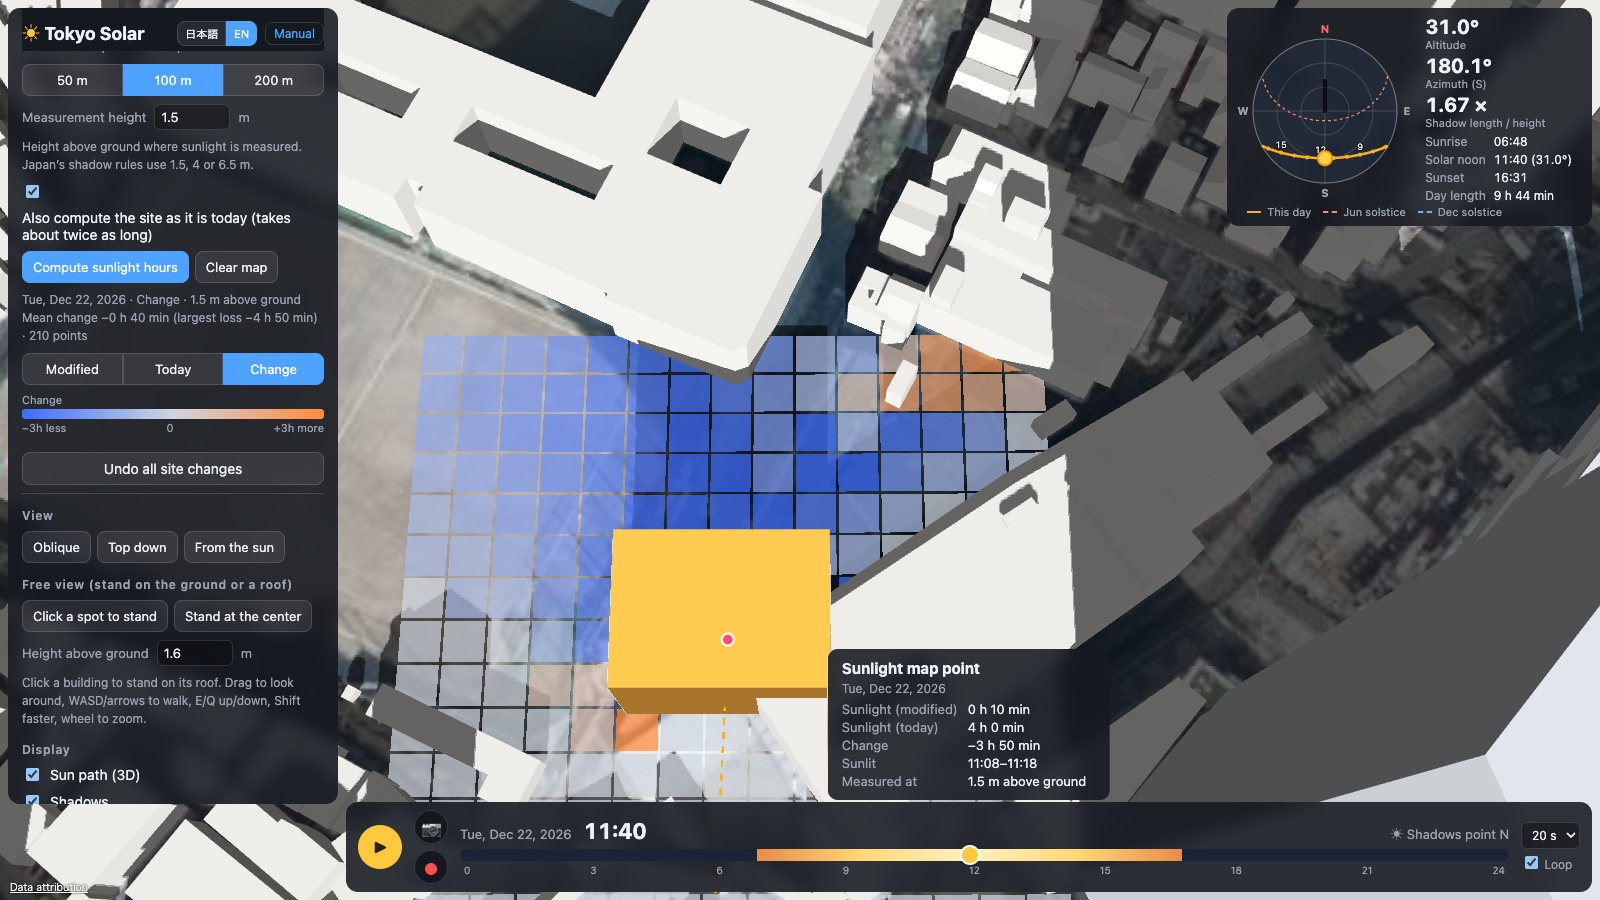
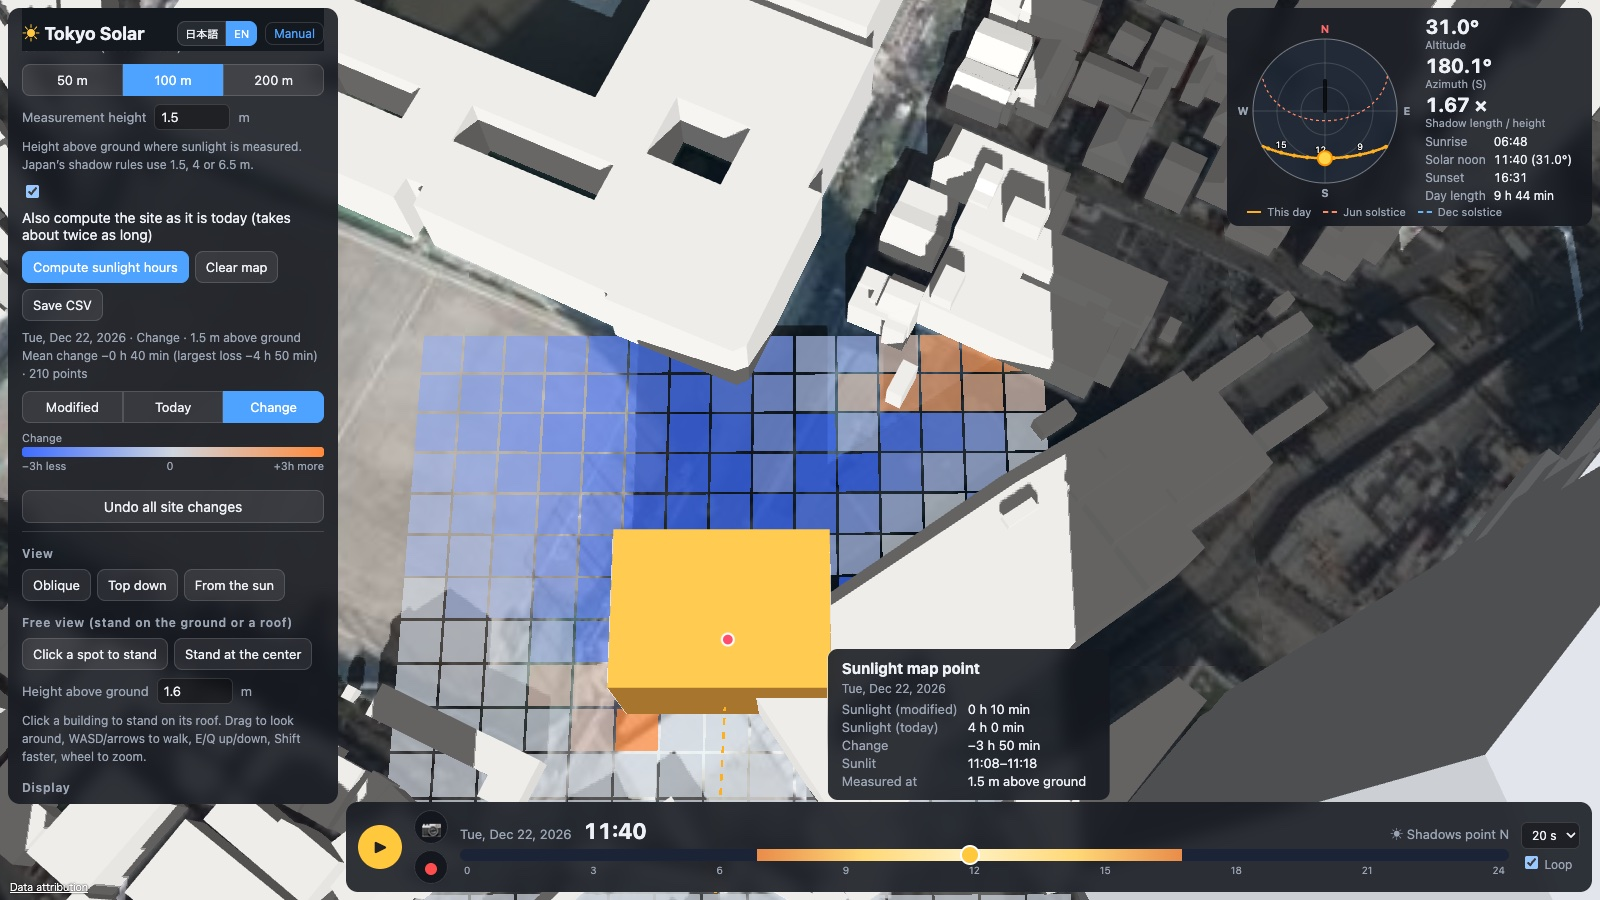
proj88: Tokyo Solar v1.2.1 — CSV export of the sunlight-hours map

Changed region(s): [[0.0, 0.56, 0.1875, 0.9022], [0.0, 0.3111, 0.2188, 0.5289]]

diff --git a/proj88/index.html b/proj88/index.html
@@ -275,7 +275,7 @@
           <div class="feat"><div class="num" data-i18n="f1Num">23区</div><h3 data-i18n="f1Title">実際の建物で計算</h3><p data-i18n="f1Text">国土交通省 PLATEAU の 3D 都市モデル。建物から地面へ、建物から建物へ落ちる影を描きます。</p></div>
           <div class="feat"><div class="num en">NOAA</div><h3 data-i18n="f2Title">天文計算の太陽位置</h3><p data-i18n="f2Text">米国海洋大気庁（NOAA）の計算式で、日付・時刻・場所から太陽の高度と方位を求めます。大気差も補正します。</p></div>
           <div class="feat"><div class="num en">300 m – 2 km</div><h3 data-i18n="f3Title">調べる範囲を選ぶ</h3><p data-i18n="f3Text">住所検索・主な場所・地図クリック・緯度経度で中心を決め、正方形の範囲を表示します。</p></div>
-          <div class="feat"><div class="num en">PNG / MP4</div><h3 data-i18n="f4Title">画像と動画で保存</h3><p data-i18n="f4Text">今の画面を PNG で、1日の影の動きを MP4 で保存。日時・太陽の高度と方位が画面に入ります。</p></div>
+          <div class="feat"><div class="num en">PNG / MP4 / CSV</div><h3 data-i18n="f4Title">画像・動画・表で保存</h3><p data-i18n="f4Text">今の画面を PNG で、1日の影の動きを MP4 で保存。日時・太陽の高度と方位が画面に入ります。日照時間マップの結果は CSV でも。</p></div>
           <div class="feat"><div class="num" data-i18n="f5Num">軌跡図</div><h3 data-i18n="f5Title">太陽の通り道</h3><p data-i18n="f5Text">その日の太陽の通り道を 3D と天空図で表示。夏至・冬至の軌跡と比べられます。日の出・南中・日の入の時刻も。</p></div>
           <div class="feat"><div class="num en">JA / EN</div><h3 data-i18n="f6Title">日本語と英語</h3><p data-i18n="f6Text">画面の表示と、保存する画像・動画の文字を、ワンクリックで切り替えられます。使い方マニュアルも日英対応。</p></div>
         </div>
@@ -304,7 +304,7 @@
     <!-- site study (v1.2) -->
     <section class="alt" id="site">
       <div class="wrap">
-        <div class="eyebrow en">NEW — v1.2</div>
+        <div class="eyebrow en">NEW — v1.2.1</div>
         <h2 data-i18n="siteTitle">ここに建てたら、まわりの日当たりは？</h2>
         <p class="sec-lead" data-i18n="siteLead">今の建物を消して更地にし、建てたい大きさの「仮建物」を置いてみる。まわりの日照が何時間減るか、どこで増えるかを、変更前と比べて地図の上で確かめられます。</p>
         <div class="split">
@@ -317,6 +317,7 @@
               <li data-i18n="site1"><strong>建物を消す</strong>：クリックした建物を次々に消せます（複数可）。消した建物は影を落としません。一覧からいつでも元に戻せます</li>
               <li data-i18n="site2"><strong>仮建物を置く</strong>：幅・奥行・高さ・向きを数値で指定した直方体を、地図をクリックして置きます。あとから大きさや場所も変えられます</li>
               <li data-i18n="site3"><strong>自由視点にも反映</strong>：仮建物の陰に入る窓や歩道で、日が当たる時間帯がどう変わるかも確かめられます</li>
+              <li data-i18n="site4"><strong>CSV で書き出す</strong>：日照時間マップの結果を、地点ごとの緯度経度・日照時間・日が当たる時間帯・変更前との増減の表として保存。Excel でそのまま開けます</li>
             </ul>
           </div>
         </div>
@@ -324,7 +325,7 @@
           <img src="images/sunmap.jpg" data-img="sunmap" width="1600" height="900" loading="lazy" data-i18n-alt="sunmapAlt" alt="仮建物のまわり100m四方の日照時間の増減を色分けした地図。北側は青（日照が減る）、東側の一部はオレンジ（増える）。クリックした地点の日照が4時間から10分に減ったことを示すパネル" />
           <figcaption data-i18n="sunmapCap">日照時間マップ（地上 1.5 m・冬至）。青は日照が減る所、オレンジは消した建物の影がなくなって増える所。仮建物のすぐ北の地点は、1日の日照が 4 時間から 10 分に減ります。</figcaption>
         </figure>
-        <div class="note-box" data-i18n="siteNote">日照時間マップは、選んだ仮建物のまわり 50〜200 m 四方を、測定面の高さ（日影規制で使う 1.5 m・4 m・6.5 m など）で計算します。変更前と比べる場合は計算に1〜2分ほどかかります。結果は目安で、日影規制の正式な検討の代わりにはなりません。</div>
+        <div class="note-box" data-i18n="siteNote">日照時間マップは、選んだ仮建物のまわり 50〜200 m 四方を、測定面の高さ（日影規制で使う 1.5 m・4 m・6.5 m など）で計算します。変更前と比べる場合は計算に1〜2分ほどかかります。結果は「CSVで保存」で表計算ソフト用に書き出せます。値は目安で、日影規制の正式な検討の代わりにはなりません。</div>
       </div>
     </section>
 
@@ -413,8 +414,8 @@
       f2Text: 'The NOAA (US National Oceanic and Atmospheric Administration) equations give the sun’s altitude and azimuth for any date, time and place, corrected for refraction.',
       f3Title: 'Choose the area',
       f3Text: 'Set the center by address search, landmark, map click or coordinates, and see a square area around it.',
-      f4Title: 'Save images and videos',
-      f4Text: 'Save the view as PNG and a whole day of shadows as MP4, with the date, time and sun position written in.',
+      f4Title: 'Save images, videos and tables',
+      f4Text: 'Save the view as PNG and a whole day of shadows as MP4, with the date, time and sun position written in, and the sunlight-hours map as CSV.',
       f5Num: 'Sun path',
       f5Title: 'The sun’s path',
       f5Text: 'The day’s path of the sun in 3D and on a sky chart, compared with the solstices, plus sunrise, solar noon and sunset.',
@@ -434,9 +435,10 @@
       site1: '<strong>Remove buildings</strong>: click building after building to clear them. Removed buildings cast no shadow, and you can restore them from the list at any time',
       site2: '<strong>Put up temporary buildings</strong>: click the map to place a box with the width, depth, height and rotation you enter, then resize or move it later',
       site3: '<strong>Works in free view too</strong>: check how the sunlit hours change at a window or on a pavement in the new building’s shadow',
+      site4: '<strong>Export to CSV</strong>: save the sunlight-hours map as a table — latitude/longitude, sunlight hours, sunlit periods and the change from today for every point. It opens directly in Excel',
       sunmapAlt: 'Map of the change in sunlight hours over a 100 m square around the box: blue (less sun) to the north and some orange (more sun) to the east, with a panel showing a spot whose sunlight fell from 4 hours to 10 minutes',
       sunmapCap: 'Sunlight-hours map (1.5 m above ground, December solstice). Blue means less sun; orange means more, where a removed building no longer casts its shadow. Just north of the box, a spot drops from 4 hours of sun to 10 minutes.',
-      siteNote: 'The sunlight-hours map covers a 50–200 m square around the selected box at a measurement height of your choice (such as the 1.5, 4 or 6.5 m used by Japan’s shadow rules). Comparing with today takes one to two minutes. Results are an estimate, not a substitute for a formal shadow-regulation study.',
+      siteNote: 'The sunlight-hours map covers a 50–200 m square around the selected box at a measurement height of your choice (such as the 1.5, 4 or 6.5 m used by Japan’s shadow rules). Comparing with today takes one to two minutes, and “Save CSV” exports the results for spreadsheets. Results are an estimate, not a substitute for a formal shadow-regulation study.',
       stepsTitle: 'Three steps',
       stepsLead: 'For example, to check the winter sunlight at a flat you are thinking of moving to:',
       s1Title: 'Choose the place',
